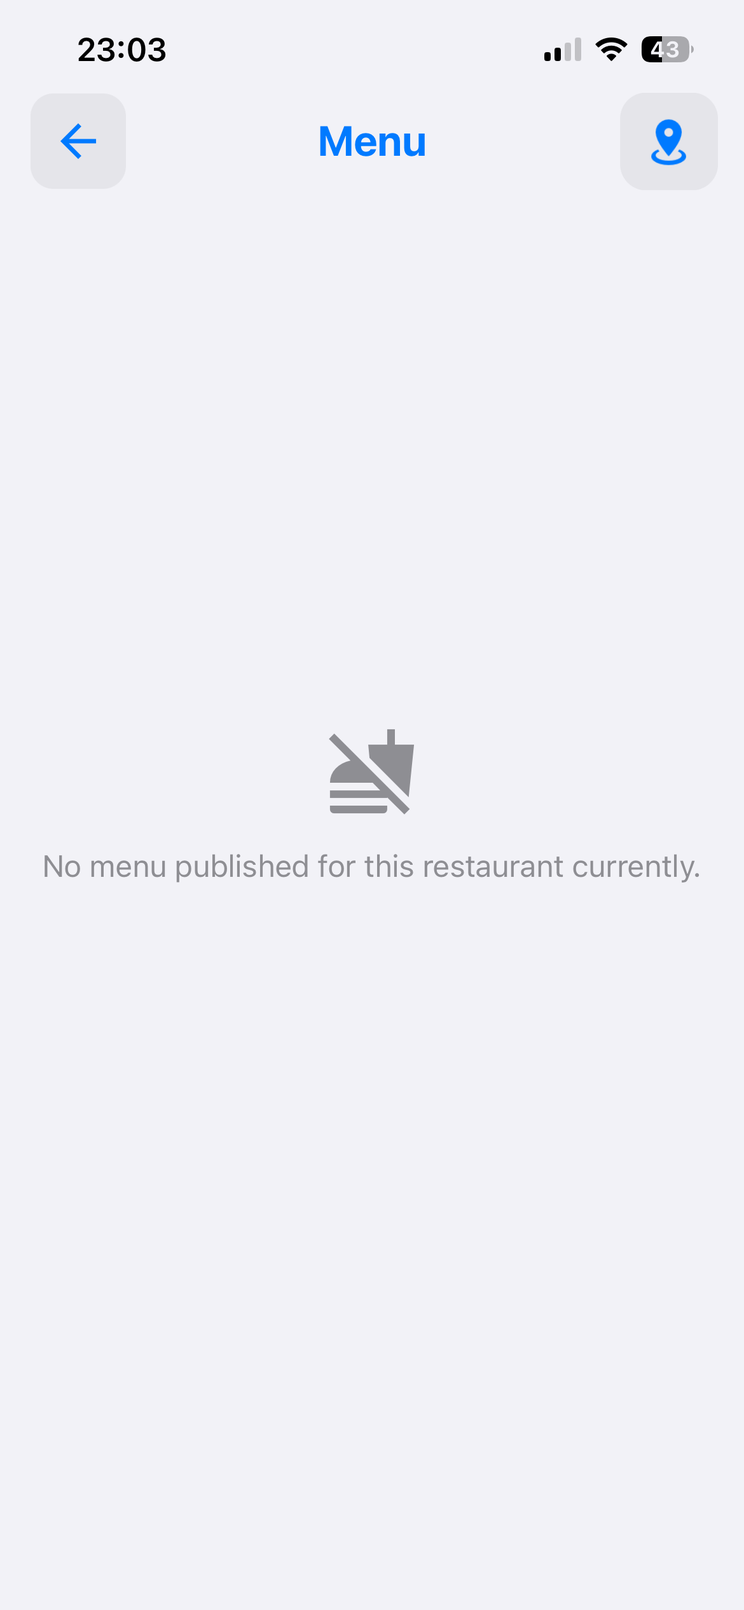
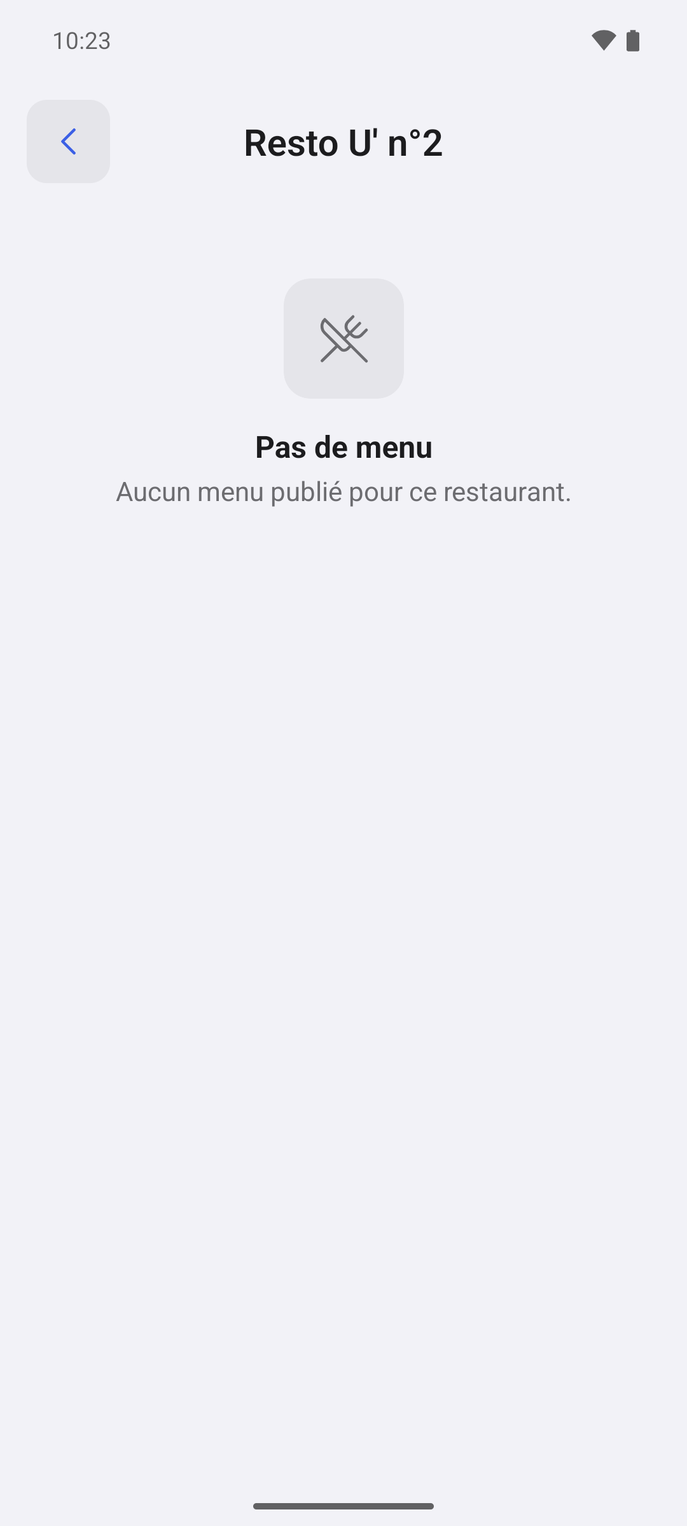
docs: les captures 6.3.1 et leurs emplacements dans la doc
Le commit précédent n'a emporté que le retrait des deux captures
remplacées : la liste des fichiers ne s'était pas développée. Voici le
reste du lot qu'il annonce : les quarante-deux captures prises au banc
Android sur 6.3.1, en clair et en sombre, les emplacements « Capture
attendue » remplis, les légendes réécrites d'après l'écran réel, et
l'inventaire avec la façon de refaire la passe.

diff --git a/docs/screenshots/README.md b/docs/screenshots/README.md
@@ -1,8 +1,8 @@
 # Captures d'écran
 
-Les images illustrant la documentation vivent dans ce dossier. Celles de l'application sont prises
-**à la main** sur un appareil ou un émulateur : le projet ne dispose d'aucun outillage de capture
-automatique, et une application React Native n'a pas de mode de rendu sans écran. Celles de la
+Les images illustrant la documentation vivent dans ce dossier. Celles de l'application se prennent sur
+le banc Android ([qualite.md](../qualite.md#le-banc-android)) ou sur un appareil : une application
+React Native n'a pas de mode de rendu sans écran. Celles de la
 **console web**, dans [`console/`](console/), sont prises par un navigateur piloté (Playwright, Chromium
 1280 px, thème sombre émulé) : une page web se photographie sans main.
 
@@ -47,12 +47,33 @@ Le chemin est `../screenshots/…` depuis `docs/features/`, `screenshots/…` de
 npx expo start        # puis a (Android), i (iOS), ou Expo Go sur un appareil
 ```
 
-- **Android** : `adb exec-out screencap -p > docs/screenshots/<nom>.png`
+- **Android** : `adb exec-out screencap -p > docs/screenshots/<nom>.png`, ou
+  `tools/appareil/banc.sh capture` sur le banc.
 - **iOS (simulateur)** : `xcrun simctl io booted screenshot docs/screenshots/<nom>.png`
 - **Appareil physique** : capture système, puis transfert dans ce dossier.
 
 Pour les écrans dépendant de l'heure (salles libres, menu du jour, rappels), le menu flottant de
 simulation temporelle permet de se placer au bon moment — voir [qualite.md](../qualite.md).
+
+La passe du 2026-11-17 (6.3.1, banc `ukit`, 1080 × 2400) a tenu à quatre réglages, à refaire à la
+prochaine :
+
+- **L'heure** : l'horloge de l'émulateur réglée en root (`settings put global auto_time 0`, puis
+  `date MMJJhhmmAAAA.ss`), et la barre d'état en mode démonstration de SystemUI, l'heure recopiée de
+  l'appareil à chaque capture : la ligne « maintenant » du Planning et la barre disent la même heure.
+  Le menu flottant déplace l'heure de l'application, pas celle de la barre.
+- **La position** : `adb emu geo fix` n'atteint pas Android 15 ; un fournisseur de test, si
+  (`cmd location providers add-test-provider` puis `set-test-provider-location`, pour `gps`,
+  `network` et `fused`). Sans position, le Campus n'affiche aucune distance.
+- **L'affluence des bibliothèques** est celle du service, en direct : la nuit, toutes sont fermées,
+  quelle que soit l'heure de l'appareil. Ces captures se prennent aux heures d'ouverture.
+- **Les noms d'enseignants** d'ADE (Planning jour, fiche d'un cours) se masquent d'une barre neutre,
+  à partir des bornes que donne `android layout --flat` avec la capture.
+
+L'accueil se rejoue sur des données effacées (`pm clear`) ; une sauvegarde en root de
+`/data/data/com.bordeaux1.emplois` et de `/data/user_de/0/com.bordeaux1.emplois`, restaurée ensuite
+avec son propriétaire et `restorecon`, rend au banc son état exact. Le bouton « Tools » du client de
+développement se masque dans son menu.
 
 ## Inventaire
 
@@ -64,12 +85,12 @@ peuvent attendre.
 
 | Fichier | Contenu | Priorité |
 |---|---|---|
-| `onboarding-bienvenue-android.png` | étape 1, la vitrine (7-J, accueil refait), en sombre, sur le banc Android | **prise** |
-| `onboarding-etablissement.png` | étape 3, les tuiles des universités, en clair (7-J, accueil refait) | **prise** |
-| `onboarding-compte.png` | étape 4, le compte universitaire et sa sortie « Plus tard » (jalon 6-J) | attendue |
-| `onboarding-preferences.png` | étape 2, choix du thème et de la langue | essentielle |
-| `onboarding-groupes.png` | étape 4, année, semestre et recherche de groupe | essentielle |
-| `onboarding-fin.png` | étape 5, confirmation | complémentaire |
+| `onboarding-bienvenue.png` · `-dark` | étape 1, la vitrine (7-J, accueil refait) | **prise** le 2026-11-17 (6.3.1) |
+| `onboarding-etablissement.png` | le choix de l'université : quatre établissements et « Autre campus » | **reprise** le 2026-11-17 (6.3.1) |
+| `onboarding-compte.png` | le compte universitaire, que « Suivant » passe sans connexion (jalon 6-J) | **prise** le 2026-11-17 |
+| `onboarding-preferences.png` | étape 2, choix du thème et de la langue | **prise** le 2026-11-17 |
+| `onboarding-groupes.png` | année, semestre et recherche de groupe | **prise** le 2026-11-17 |
+| `onboarding-fin.png` | la confirmation | **prise** le 2026-11-17 |
 
 ### Finitions d'interface — [phase-6/6-1-e-finitions-interface.md](../phase-6/6-1-e-finitions-interface.md)
 
@@ -83,13 +104,13 @@ peuvent attendre.
 
 | Fichier | Contenu | Priorité |
 |---|---|---|
-| `planning-jour.png` | vue jour, curseur de dates, journée chargée | **prise** |
-| `planning-semaine.png` | vue semaine, sections repliables | essentielle |
-| `planning-groupes.png` | recherche de groupes, sections alphabétiques | essentielle |
-| `planning-cours-detail.png` | fiche d'un cours avec sa carte | essentielle |
+| `planning-jour.png` · `-dark` | vue jour, curseur de dates, ligne de l'heure, noms d'enseignants masqués | **reprise** le 2026-11-17 (6.3.1) |
+| `planning-semaine.png` · `-dark` | vue semaine, une section par jour | **prise** le 2026-11-17 |
+| `planning-groupes.png` · `-dark` | recherche de groupes, sections par préfixe | **prise** le 2026-11-17 |
+| `planning-cours-detail.png` · `-dark` | fiche d'un cours avec sa carte, nom d'enseignant masqué | **prise** le 2026-11-17 |
 | `planning-cours-simultanes.png` | carrousel de cours qui se chevauchent | complémentaire |
-| `planning-hors-ligne.png` | bandeau de données en cache daté | **prise** — produite avec l'interrupteur **hors ligne** du menu de développement, sans mode avion ([qualite.md](../qualite.md)) |
-| `planning-echec.png` | l'échec d'une source : message de la famille et bouton Réessayer | **prise** — même interrupteur |
+| `planning-hors-ligne.png` | bandeau de données en cache daté | **à reprendre** : prise en août sur iPhone, en anglais, avant les refontes de 7-J ; l'interrupteur **hors ligne** du menu de développement la produit ([qualite.md](../qualite.md)), `banc.sh reseau non` coupe aussi Metro sur `ukit` |
+| `planning-echec.png` | l'échec d'une source : message de la famille et bouton Réessayer | **à reprendre** (août, iPhone) — même interrupteur |
 | `planning-groupes-sombre-avant.png` · `planning-groupes-sombre-apres.png` | la première section de la recherche de groupes en sombre, avant et après la correction de l'index 0 de `sectionsHeaders` ([6.1-C](../phase-6/6-1-c-passe-de-code.md)) | **prises** — le couple avant/après d'un rendu qui change |
 | `planning-lien-attendu.png` | l'onglet Planning proposant de coller un lien d'abonnement (jalon 6-J) | attendue |
 | `lien-edt-saisie.png` | l'écran de saisie du lien, après une vérification réussie | attendue |
@@ -100,11 +121,11 @@ peuvent attendre.
 
 | Fichier | Contenu | Priorité |
 |---|---|---|
-| `campus-dashboard.png` | tableau de bord, quatre sections | essentielle — la comparaison avant / après du jalon 6-K a été faite **hors dépôt** ; le fichier reste à déposer |
+| `campus-dashboard.png` · `-dark` | tableau de bord : annonces, restaurants, bibliothèques, salles libres | **prise** le 2026-11-17 (6.3.1) |
 | `campus-dashboard-avant.png` · `-avant-dark.png` · `-avant-android.png` · `-avant-android-dark.png` | le tableau de bord **avant** le jalon [7-I](../phase-7/7-i-releve-et-vocabulaire.md), sur les deux appareils et dans les deux thèmes : la ligne de base du relevé du mouvement | attendues — à prendre avant tout code du jalon |
 | `campus-dashboard-apres.png` · `-apres-dark.png` · `-apres-android.png` · `-apres-android-dark.png` | le même écran à la livraison de 7-I | les deux `-android` **prises** le 2026-11-05 au format de l'A8, avec 7-J ; celles de l'iPhone attendues |
 | `planning-jour-`, `scolarite-dashboard-`, `reglages-` · `avant-android` · `apres-android`, et leurs `-dark` | les trois autres onglets avant et après [7-J](../phase-7/7-j-ecrans.md), au format de l'A8, noms d'enseignants floutés | **prises** le 2026-11-05 ; à la sortie, `-apres` devient la capture courante de chaque écran |
-| `annonces-liste-avant.png` · `annonces-liste-apres.png` | la grille des annonces, du 1:1 au 4:5 | attendues |
+| `annonces-liste-avant.png` · `annonces-liste-apres.png` | la grille des annonces, du 1:1 au 4:5 | l'avant **pris** ; l'après est `annonces-liste.png` |
 | `campus-liste-filtres.png` | modale de filtres du socle de liste | complémentaire |
 | `campus-liste-vide.png` | état vide d'une liste filtrée | complémentaire |
 
@@ -112,9 +133,9 @@ peuvent attendre.
 
 | Fichier | Contenu | Priorité |
 |---|---|---|
-| `crous-liste.png` | liste des restaurants avec distances **et horaires** | **livrée** |
-| `crous-menu.png` | menu d'un restaurant, midi et soir | **livrée** (reprise au banc Android, deuxième passe de 7-J) |
-| `crous-menu-absent.png` | restaurant qui ne publie pas de menu — l'état vide, à contraster avec l'état d'échec | **livrée** |
+| `crous-liste.png` · `-dark` | liste des restaurants avec distances **et horaires** | **reprise** le 2026-11-17 (6.3.1) |
+| `crous-menu.png` · `-dark` | menu d'un restaurant | **reprise** le 2026-11-17 (6.3.1) |
+| `crous-menu-absent.png` · `-dark` | restaurant qui ne publie pas de menu — l'état vide, à contraster avec l'état d'échec | **reprise** le 2026-11-17 (6.3.1) |
 
 ### Campus — bibliothèques · [features/campus-bibliotheques.md](../features/campus-bibliotheques.md)
 
@@ -128,17 +149,17 @@ peuvent attendre.
 
 | Fichier | Contenu | Priorité |
 |---|---|---|
-| `salles-libres-liste.png` | liste des bâtiments en accès libre | essentielle |
-| `salles-libres-detail.png` | sélecteur d'heure et créneaux disponibles | essentielle |
+| `salles-libres-liste.png` · `-dark` | liste des bâtiments en accès libre | **prise** le 2026-11-17 |
+| `salles-libres-detail.png` · `-dark` | sélecteur d'heure et salles libres par étage | **prise** le 2026-11-17 |
 | `salles-libres-ferme.png` | état fermé (hors horaires ou vacances) | complémentaire |
 
 ### Campus — vie étudiante · [features/campus-vie-etudiante.md](../features/campus-vie-etudiante.md)
 
 | Fichier | Contenu | Priorité |
 |---|---|---|
-| `annonces-liste.png` | liste des annonces actives | essentielle |
-| `annonce-detail.png` | fiche d'une annonce avec bouton d'action | essentielle |
-| `annonces-erreur.png` | la liste en échec : service indisponible et bouton Réessayer — **déposée** (jalon 6-B) | essentielle |
+| `annonces-liste.png` · `-dark` | liste des annonces actives | **prise** le 2026-11-17 |
+| `annonce-detail.png` · `-dark` | fiche d'une annonce avec bouton d'action | **prise** le 2026-11-17 |
+| `annonces-erreur.png` | la liste en échec : service indisponible et bouton Réessayer (jalon 6-B) | **à reprendre** (août, iPhone) |
 
 ### Scolarité — [features/scolarite.md](../features/scolarite.md)
 
@@ -146,10 +167,11 @@ Toutes les captures de cette section exigent un compte de test ou un floutage.
 
 | Fichier | Contenu | Priorité |
 |---|---|---|
-| `scolarite-login.png` | écran de connexion universitaire | **à reprendre** (6-K : retrait de Montserrat) |
-| `scolarite-dashboard.png` | salutation et ligne de messagerie — **différée** : l'habillage de ces écrans doit changer, et une capture périmée renseigne moins bien qu'une absence signalée | essentielle |
+| `scolarite-login.png` · `-dark` | écran de connexion universitaire, avant toute saisie | **reprise** le 2026-11-17 (6.3.1) |
+| `scolarite-sans-compte.png` · `-dark` | la page sans compte : salutation, « En un coup d'œil », services | **prise** le 2026-11-17 (6.3.1) |
+| `scolarite-dashboard.png` | la page connectée — attend un **compte de test** : le banc n'a que des comptes réels | essentielle |
 | `scolarite-progression.png` | écran de progression du parcours froid | **à reprendre** (6-K : retrait de Montserrat) |
-| `scolarite-echec.png` | un échec de session nommé, message et bouton Réessayer — l'écran que le module n'avait pas avant le jalon 6-F — **déposée** | essentielle |
+| `scolarite-echec.png` | un échec de session nommé, message et bouton Réessayer — l'écran que le module n'avait pas avant le jalon 6-F | **à reprendre** (août, iPhone) |
 | `scolarite-login-echec.png` | le refus d'identifiants sur le formulaire, distinct de l'échec de session | **à reprendre** (6-K : retrait de Montserrat) |
 | `scolarite-biometrie.png` | l'invite Face ID à l'ouverture de l'onglet, sur un build — **déposée** (6.1-A, 2026-09-02) | complémentaire |
 | `scolarite-compte.png` | réglages du compte et déconnexion — **différée** (idem) | complémentaire |
@@ -163,12 +185,12 @@ Toutes les captures de cette section exigent un compte de test ou un floutage.
 
 | Fichier | Contenu | Priorité |
 |---|---|---|
-| `reglages.png` | écran complet, sections déployées | essentielle |
-| `reglages-apropos-android.png` | écran À propos, au gabarit des Réglages (7-J), sur le banc Android | **prise** |
+| `reglages.png` · `-dark` | écran complet | **prise** le 2026-11-17 (6.3.1) |
+| `reglages-apropos.png` · `-dark` | écran À propos, au gabarit des Réglages (7-J) | **reprise** le 2026-11-17 (6.3.1) |
 | `reglages-filtres.png` | modale de gestion des filtres d'UE | complémentaire |
 | `reglages-calendrier.png` | modale de choix du calendrier | complémentaire |
 | `reglages-langue.png` | modale de langue | complémentaire |
-| `reglages-etablissement.png` | modale d'établissement : la liste, puis la confirmation | **à reprendre** (6-K : boutons de confirmation pleins) |
+| `reglages-etablissement.png` · `-dark` | modale d'établissement, premier temps : la liste par campus | **reprise** le 2026-11-17 (6.3.1) ; la confirmation reste à prendre |
 
 ### Pilotage — [pilotage.md](../pilotage.md)
 
@@ -226,27 +248,27 @@ l'écran.
 | Fichier | Contenu | Document | Priorité |
 |---|---|---|---|
 | `navigation-tabbar.png` | barre d'onglets et bouton d'action contextuel | [navigation.md](../navigation.md) | essentielle |
-| `theme-clair-sombre.png` | un même écran dans les deux thèmes | [theme.md](../theme.md) | essentielle |
+| `theme-clair-sombre.png` | un même écran dans les deux thèmes : la vue jour, composée des deux `planning-jour` | [theme.md](../theme.md) | **prise** le 2026-11-17 |
 | `carte.png` | écran carte, marqueur au thème de l'application | [cartographie.md](../cartographie.md) | essentielle |
 | `modmenu.png` | menu flottant de simulation temporelle | [qualite.md](../qualite.md) | complémentaire |
 | `modmenu-blueprints.png` | panneau de livraison : origine, version et raison par Blueprint | [blueprints.md](../blueprints.md) | **à reprendre** (6-K : teintes du menu) |
 
-## Sept captures que le jalon 6-K a périmées
+## Les captures d'avant 6.3 qui restent
 
-Le socle visuel a changé quatre choses **visibles** sur des écrans déjà photographiés : les teintes
-d'affluence des bibliothèques (Material → Apple), l'icône « végétarien » du Crous, les boutons de
-confirmation des modales (gris → plein), et le retrait de Montserrat — qui ne rendait que dans la
-Scolarité, la seule graisse chargée y vivant.
+La passe du 2026-11-17 a repris sur 6.3.1 tout ce que le banc atteint sans compte réel ni panne
+provoquée. Restent des captures d'août, sur iPhone, d'avant les refontes de 6-K et de 7-J :
 
-`bu-liste` · `bu-detail` · `bu-couverture-partielle` · `crous-menu` · `scolarite-login` ·
-`scolarite-progression` · `scolarite-login-echec` · `reglages-etablissement` · `modmenu-blueprints`
+- `bu-liste` · `bu-detail` · `bu-couverture-partielle` : l'affluence est celle du service, en direct,
+  et la passe a eu lieu de nuit ; le bandeau de couverture partielle n'apparaît que si une zone ne
+  répond pas.
+- `planning-hors-ligne` · `planning-echec` · `annonces-erreur` · `scolarite-echec` : des états
+  d'échec, à produire avec l'interrupteur hors ligne du menu de développement.
+- `scolarite-progression` · `scolarite-login-echec` · `scolarite-biometrie` : un compte de test, ou
+  l'iPhone pour Face ID.
+- `modmenu-blueprints` : le menu de développement, à rouvrir par sept tapes sur la version.
 
-Elles restent dans le dépôt en attendant : les remplacer demande un appareil, et une capture absente
-renseigne moins bien qu'une capture datée dont on sait qu'elle l'est. **Mais elles sont marquées, et
-c'est ce qui compte** — le tableau ci-dessus les porte en « à reprendre ».
-
-Celles qui **n'ont pas bougé**, vérifiées : `planning-jour`, `planning-echec`, `planning-hors-ligne`,
-`crous-liste`, `crous-menu-absent`, `annonces-erreur`, `onboarding-etablissement`, `scolarite-echec`.
+Elles restent en attendant, marquées « à reprendre » dans les tableaux : une capture datée dont on
+sait qu'elle l'est renseigne mieux qu'une absence.
 
 ## Mettre à jour
 

diff --git a/docs/features/onboarding.md b/docs/features/onboarding.md
@@ -83,7 +83,7 @@ répondent, parce que la cause avait trois étages :
 
 Le retour et la ligne de progression apparaissent à partir de l'étape 2, en haut.
 
-![L'étape 1, la vitrine : un cours, un restaurant et une bibliothèque en relief, en thème sombre, sur le banc Android](../screenshots/onboarding-bienvenue-android.png)
+![L'étape 1, la vitrine : un cours, un restaurant et une bibliothèque en relief, le titre en deux tons et le bouton Commencer](../screenshots/onboarding-bienvenue.png)
 
 **L'étape 1 montre l'application avant de lui poser une question**
 ([`VitrineDAccueil`](../../src/features/Onboarding/components/VitrineDAccueil.tsx), direction A de
@@ -117,11 +117,13 @@ Un lien d'abonnement se demande sans groupe, et une journée entière (un jour f
 pour un cours ; constaté au banc pour l'IUT le 2026-11-10 (« Aujourd'hui, un cours. »), où la fin
 montrait jusque-là le cercle seul.
 
-> **Capture attendue** — `onboarding-preferences.png` : l'étape 2, sélection du thème et de la langue.
->
-> **Capture attendue** — `onboarding-fin.png` : l'étape 5, confirmation avant l'entrée dans l'application.
+![L'étape 2 : le thème, choisi sur deux aperçus d'une même journée, et la langue](../screenshots/onboarding-preferences.png)
 
-![L'étape du choix de l'université : une tuile par établissement, son logo en filigrane, en thème clair](../screenshots/onboarding-etablissement.png)
+![L'étape du choix de l'université : une rangée par établissement avec son logo et sa ville, « Autre campus » en dernier](../screenshots/onboarding-etablissement.png)
+
+![L'étape du compte universitaire : le formulaire, la promesse sur les identifiants et la sortie vers un autre campus ; « Suivant » passe sans se connecter](../screenshots/onboarding-compte.png)
+
+![La dernière étape, avant l'entrée dans l'application](../screenshots/onboarding-fin.png)
 
 Chaque choix est appliqué **immédiatement**, pas à la fin : sélectionner le mode sombre à l'étape 2
 repeint l'écran en cours. L'utilisateur voit ce qu'il choisit. Il n'y a donc pas d'état à valider —
@@ -175,8 +177,7 @@ l'année affichait « Aucun groupe ne correspond à cette recherche ».
 L'affichage est plafonné à **10 résultats** ; au-delà, un message indique combien sont masqués et
 invite à préciser la recherche.
 
-> **Capture attendue** — `onboarding-groupes.png` : l'étape 4, avec une année et un semestre
-> sélectionnés et une liste de groupes filtrée.
+![L'étape du groupe : l'année et le semestre choisis, la recherche, la liste des groupes filtrée](../screenshots/onboarding-groupes.png)
 
 ## Décisions de conception
 

diff --git a/docs/features/settings.md b/docs/features/settings.md
@@ -44,8 +44,8 @@ au retour sur l'accueil (`relireLesReglages`).
 
 Le bouton d'action de la barre d'onglets mène à **À propos**.
 
-> **Capture attendue** — `reglages.png` : l'écran complet, sections visibles.
->
+![Les Réglages : quatre groupes (établissement, affichage, préférences, réinitialisation), une icône au trait par rangée, la valeur en gris à droite](../screenshots/reglages.png)
+
 > **Capture attendue** — `reglages-langue.png` : la modale de langue.
 >
 ## Le compte universitaire, et le lien d'emploi du temps
@@ -76,7 +76,7 @@ bibliothèques. Le nom affiché à droite vient du **catalogue** et n'est pas tr
 comme le nom d'un calendrier système trois sections plus bas
 ([6-G](../phase-6/6-g-etablissements.md)).
 
-![La modale d'établissement et sa confirmation : la liste des universités, puis l'écran qui annonce ce que la bascule effacera](../screenshots/reglages-etablissement.png)
+![La modale d'établissement, premier temps : les universités rangées par campus, l'actuelle cochée](../screenshots/reglages-etablissement.png)
 
 La modale a **deux temps** : la liste, puis une confirmation qui annonce ce qui sera effacé. Une
 bascule immédiate au premier toucher rendrait ce coût invisible jusqu'à ce qu'il soit payé. Toucher
@@ -598,7 +598,7 @@ le logo vectoriel ([`LogoUKit`](../../src/shared/ui/epure/LogoUKit.tsx)) au lieu
 blanc. L'écran avait son propre gabarit, une bande grise d'en-tête par carte : une troisième manière de
 titrer un groupe. La version garde ses sept tapes, qui ouvrent le menu de test.
 
-![L'écran À propos, au gabarit des Réglages, sur le banc Android](../screenshots/reglages-apropos-android.png)
+![L'écran À propos, au gabarit des Réglages : la version, la source des données, le contact, les crédits](../screenshots/reglages-apropos.png)
 
 ## Décisions de conception
 

diff --git a/docs/features/scolarite.md b/docs/features/scolarite.md
@@ -60,12 +60,8 @@ section 2 de [sources-externes.md](../sources-externes.md).
 > ne doivent montrer ni nom, ni numéro étudiant, ni INE, ni adresse mail, ni contenu de messagerie
 > réels.
 >
-> **Capture attendue** — `scolarite-login.png` : l'écran de connexion universitaire.
->
-> **Deux captures différées, volontairement** — `scolarite-dashboard.png` et `scolarite-compte.png`.
-> Elles montrent des écrans dont l'habillage doit changer prochainement, et une capture périmée
-> renseigne moins bien qu'une absence signalée. Les quatre autres, ci-dessous, illustrent ce que le
-> jalon 6-F a réellement changé et n'ont pas cette fragilité.
+> **Deux captures attendent un compte de test** — `scolarite-dashboard.png` (la page connectée) et
+> `scolarite-compte.png`. Le banc n'a que des comptes réels, et ces deux écrans montrent un dossier.
 
 ![L'écran de connexion universitaire, avant toute saisie](../screenshots/scolarite-login.png)
 
@@ -175,8 +171,7 @@ aucun teaser. Le signalement qui l'a demandé venait d'un enseignant-chercheur d
 l'application avait été imposée : il cherchait la page courriel, et l'onglet ne lui montrait qu'un
 formulaire étudiant. « Autre campus », qui ne publie aucune porte, garde sa page.
 
-> **Capture attendue** — `scolarite-sans-compte.png` : la page sans compte à Bordeaux — bandeau sans
-> prénom, encart d'invitation, grille en portes, tuile Documents — à côté de la page connectée.
+![La page sans compte à Bordeaux : la salutation sans prénom, « En un coup d'œil » avec Moodle et la messagerie en portes et la tuile Documents, puis les services](../screenshots/scolarite-sans-compte.png)
 
 Un établissement qui ne déclare pas une adresse **n'affiche pas la porte**. La grille se construit
 donc **depuis le catalogue**, jamais depuis une liste écrite dans l'écran :

diff --git a/docs/features/planning.md b/docs/features/planning.md
@@ -33,15 +33,14 @@ seul composant.
    n'a ni carte ni UE, et ouvre l'agenda du système. Un **« + »** dans l'en-tête ouvre l'éditeur du
    système sur le jour affiché ; il n'existe que si un calendrier est affiché.
 
-![La vue jour : curseur de dates en bandeau, cartes de cours colorées par catégorie, salle et enseignant en description](../screenshots/planning-jour.png)
+![La vue jour : le curseur de dates, la ligne de l'heure et le temps avant le premier cours, deux cartes colorées par catégorie et la pause qui les sépare ; noms d'enseignants masqués](../screenshots/planning-jour.png)
 
-> **Capture attendue** — `planning-semaine.png` : la vue semaine, en agenda.
->
-> **Capture attendue** — `planning-groupes.png` : la recherche de groupes et ses sections
-> alphabétiques colorées.
->
-> **Capture attendue** — `planning-cours-detail.png` : la fiche d'un cours localisé, avec sa carte.
->
+![La vue semaine : le curseur des semaines, une section par jour avec son nombre de cours, les cours passés estompés](../screenshots/planning-semaine.png)
+
+![La recherche de groupes : le champ, puis les groupes rangés par préfixe](../screenshots/planning-groupes.png)
+
+![La fiche d'un cours : catégorie, titre, horaires et durée, salle, groupe et code d'UE, puis la salle sur la carte ; nom d'enseignant masqué](../screenshots/planning-cours-detail.png)
+
 > **Capture attendue** — `planning-telephone.png` : une journée où un rendez-vous personnel et une
 > journée entière se mêlent aux cours, dans la couleur de leur calendrier, avec le « + » en en-tête.
 

diff --git a/docs/features/campus-salles-libres.md b/docs/features/campus-salles-libres.md
@@ -16,11 +16,10 @@ Socle commun : [campus.md](campus.md). Sources : Celcat (section 1 de
    cette heure — **sectionnée par étage, du plus bas au plus haut** — avec pour chacune la durée de
    disponibilité restante.
 
-> **Capture attendue** — `salles-libres-liste.png` : la liste des bâtiments en accès libre.
->
-> **Capture attendue** — `salles-libres-detail.png` : la fiche d'un bâtiment en journée, sélecteur
-> d'heure et créneaux disponibles.
->
+![La liste des bâtiments en accès libre : photo, ville, distance, horaires et nombre de salles](../screenshots/salles-libres-liste.png)
+
+![La fiche d'un bâtiment à 10 h : le sélecteur d'heure, les salles libres rangées par étage, chacune avec l'heure où elle cesse de l'être et la durée restante](../screenshots/salles-libres-detail.png)
+
 > **Capture attendue** — `salles-libres-ferme.png` : l'état fermé, hors horaires d'ouverture ou
 > pendant les vacances.
 

diff --git a/docs/features/campus-crous.md b/docs/features/campus-crous.md
@@ -27,7 +27,7 @@ Socle commun : [campus.md](campus.md). Source de données : Croustillant, sectio
    ([`CampusMapSection`](../../src/features/Campus/components/CampusMapSection.tsx)), dans la page et
    non derrière un bouton d'en-tête, comme sur une fiche de cours.
 
-![La liste des restaurants : distance, favori, et les horaires du fournisseur — « du lundi au vendredi | SELF : 11h30-13h30 | BAR : 8h-14h30 »](../screenshots/crous-liste.png)
+![La liste des restaurants : photo, favori, ville, distance, et les horaires tels que le fournisseur les écrit — « du lundi au vendredi : 09h00 - 17h45 »](../screenshots/crous-liste.png)
 
 La ligne d'horaires de cette capture est le correctif du jalon [6-D](../phase-6/6-d-campus.md) : avant
 lui, ces trois mentions étaient remplacées par « Horaires non spécifiés », pour **tous** les

diff --git a/docs/features/campus-vie-etudiante.md b/docs/features/campus-vie-etudiante.md
@@ -25,10 +25,9 @@ fonctionnalité alimentée par la base**, et le **premier écran branché sur le
 3. Toucher une annonce ouvre sa fiche : visuel au ratio de l'image, titre, émetteur, étiquette
    d'information, description longue, et bouton d'action ouvrant un lien externe.
 
-> **Capture attendue** — `annonces-liste.png` : la grille des annonces actives.
->
-> **Capture attendue** — `annonce-detail.png` : une fiche complète, avec émetteur, étiquette et bouton
-> d'action.
+![La grille des annonces actives : l'affiche au format 4:5, l'émetteur et le titre](../screenshots/annonces-liste.png)
+
+![La fiche d'une annonce : l'affiche, le titre, l'accroche, le texte, le lieu et le bouton d'action](../screenshots/annonce-detail.png)
 
 ## Flux de données
 

diff --git a/docs/theme.md b/docs/theme.md
@@ -223,8 +223,7 @@ le téléphone, et un téléphone sombre sous une application claire mélangeait
 Expo Go le 2026-09-06, où c'est de toute façon le réglage de l'hôte qui s'applique. Aligner l'apparence
 du système sur le choix de l'utilisateur est ce qui rend le thème **un** sur toute la surface.
 
-> **Capture attendue** — `theme-clair-sombre.png` : un même écran dans les deux thèmes, côte à côte,
-> pour servir de référence visuelle.
+![La vue jour du Planning dans les deux thèmes, côte à côte : la référence visuelle](screenshots/theme-clair-sombre.png)
 
 ## Le vocabulaire partagé
 

diff --git a/docs/features/campus.md b/docs/features/campus.md
@@ -79,7 +79,7 @@ disparaît, le journal dit pourquoi — et **explicite** sur l'écran dédié, q
 Chaque section suit le même gabarit : un titre, un bouton « voir tout », une liste horizontale de
 cartes, et un squelette à la forme de ses cartes pendant qu'elle charge.
 
-> **Capture attendue** — `campus-dashboard.png` : le tableau de bord, les quatre sections peuplées.
+![Le tableau de bord du Campus : les annonces en tête, puis les restaurants en carrousel, chacun avec sa distance et ses horaires](../screenshots/campus-dashboard.png)
 
 ## Une section vide dit pourquoi, et propose un geste
 
